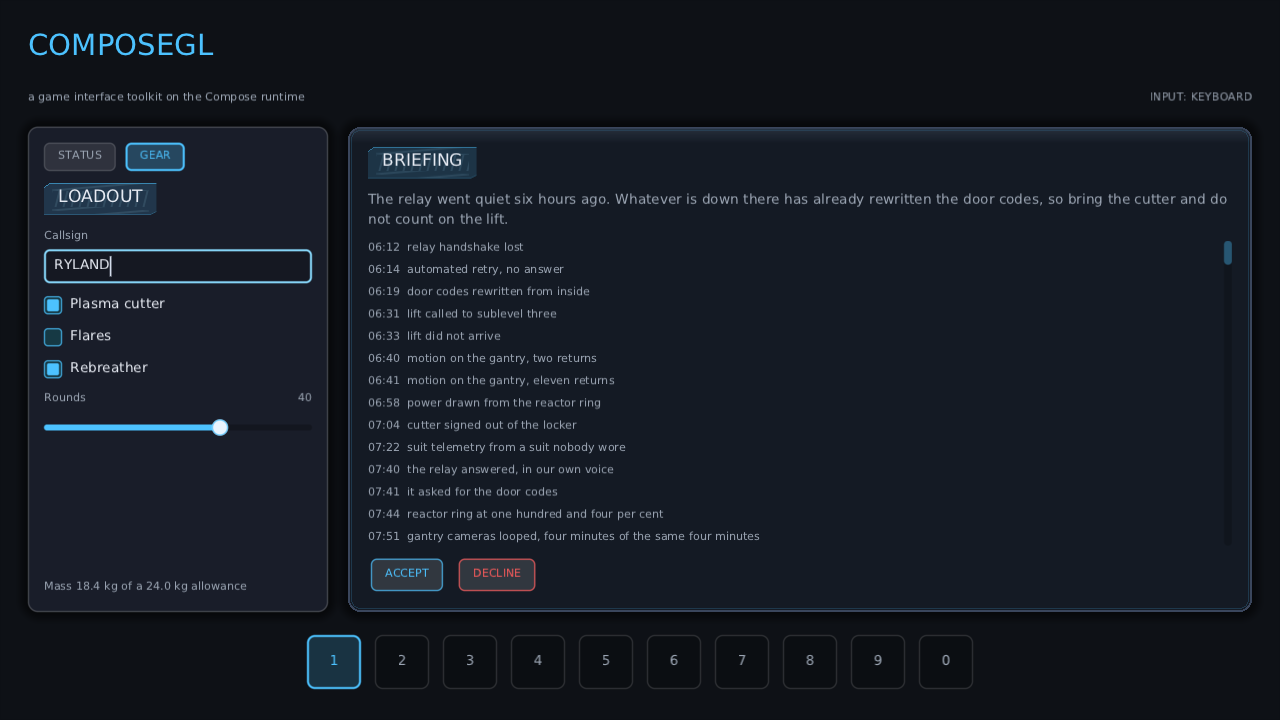
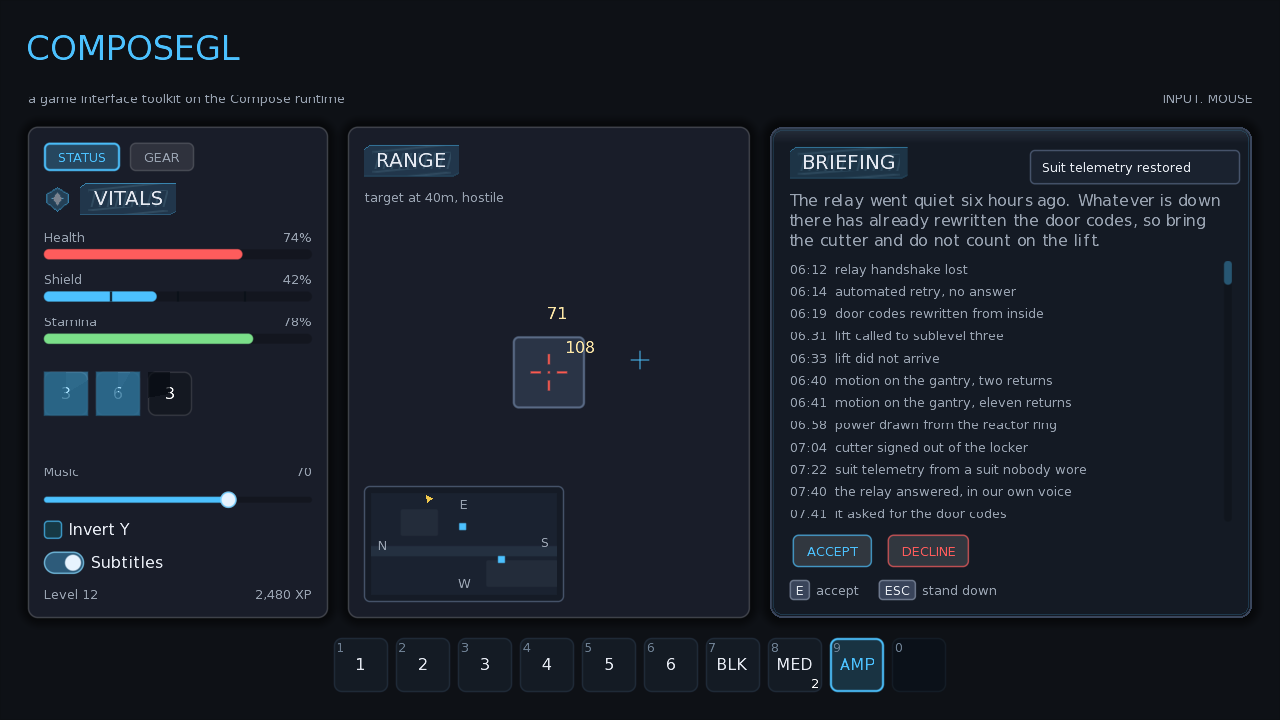
docs: refresh the example screenshot and correct what it claims
The picture at the top was taken before the RANGE panel, the reticle, the
damage numbers, the minimap, the hotbar and the key prompts existed, and its
caption described a tab that is no longer the one the example opens on.

The draw-call count was stale with it: the screen costs eleven now, not five,
and almost all of the difference is scissors rather than texture churn — the
scrolling log and the minimap each clip, and a clip flushes what is queued.
Saying five was the sort of number that quietly becomes a lie.

Claude-Session: https://claude.ai/code/session_0163t7dKcLMssLbumsfgDvZP

diff --git a/README.md b/README.md
@@ -24,14 +24,16 @@ general-purpose one bent into shape.
 
 ![The example running](docs/images/demo.png)
 
-*The example, in `composegl-demo`, on its LOADOUT tab with a callsign being typed. Every panel, border, shadow, bar and letter is drawn by our own
-renderer from a tree the Compose runtime maintains. The STATUS panel is drawn by the shader — one
-quad for its corner, border and shadow together. The BRIEFING panel is nine-patch art out of a
-texture atlas, and the gap between its frame and its text is a number in the atlas file rather than
-a number in the source. The headings sit on a ribbon whose hatch repeats sideways and stretches
-downwards. The whole screen costs five draw calls: every glyph at every size, and the white texel
-solid colour is drawn from, share one page — so the only texture changes left are the game's own
-art.*
+*The example, in `composegl-demo`. Every panel, border, shadow, bar, blip and letter is drawn by our
+own renderer from a tree the Compose runtime maintains. The STATUS and RANGE panels are drawn by the
+shader — one quad each for corner, border and shadow together. The BRIEFING panel is nine-patch art
+out of a texture atlas, and the gap between its frame and its text is a number in the atlas file
+rather than a number in the source. The headings sit on a ribbon whose hatch repeats sideways and
+stretches downwards. The reticle, the bars, the floating damage numbers, the minimap, the hotbar and
+the key prompts under it are widgets the toolkit ships. The whole screen costs eleven draw calls,
+and most of those are a scissor going on or off — the scrolling log and the minimap each clip, and a
+clip has to flush what is queued. Every glyph at every size shares one page with the white texel
+solid colour is drawn from, so the only texture changes left are the game's own art.*
 
 ## The thing it is for
 
